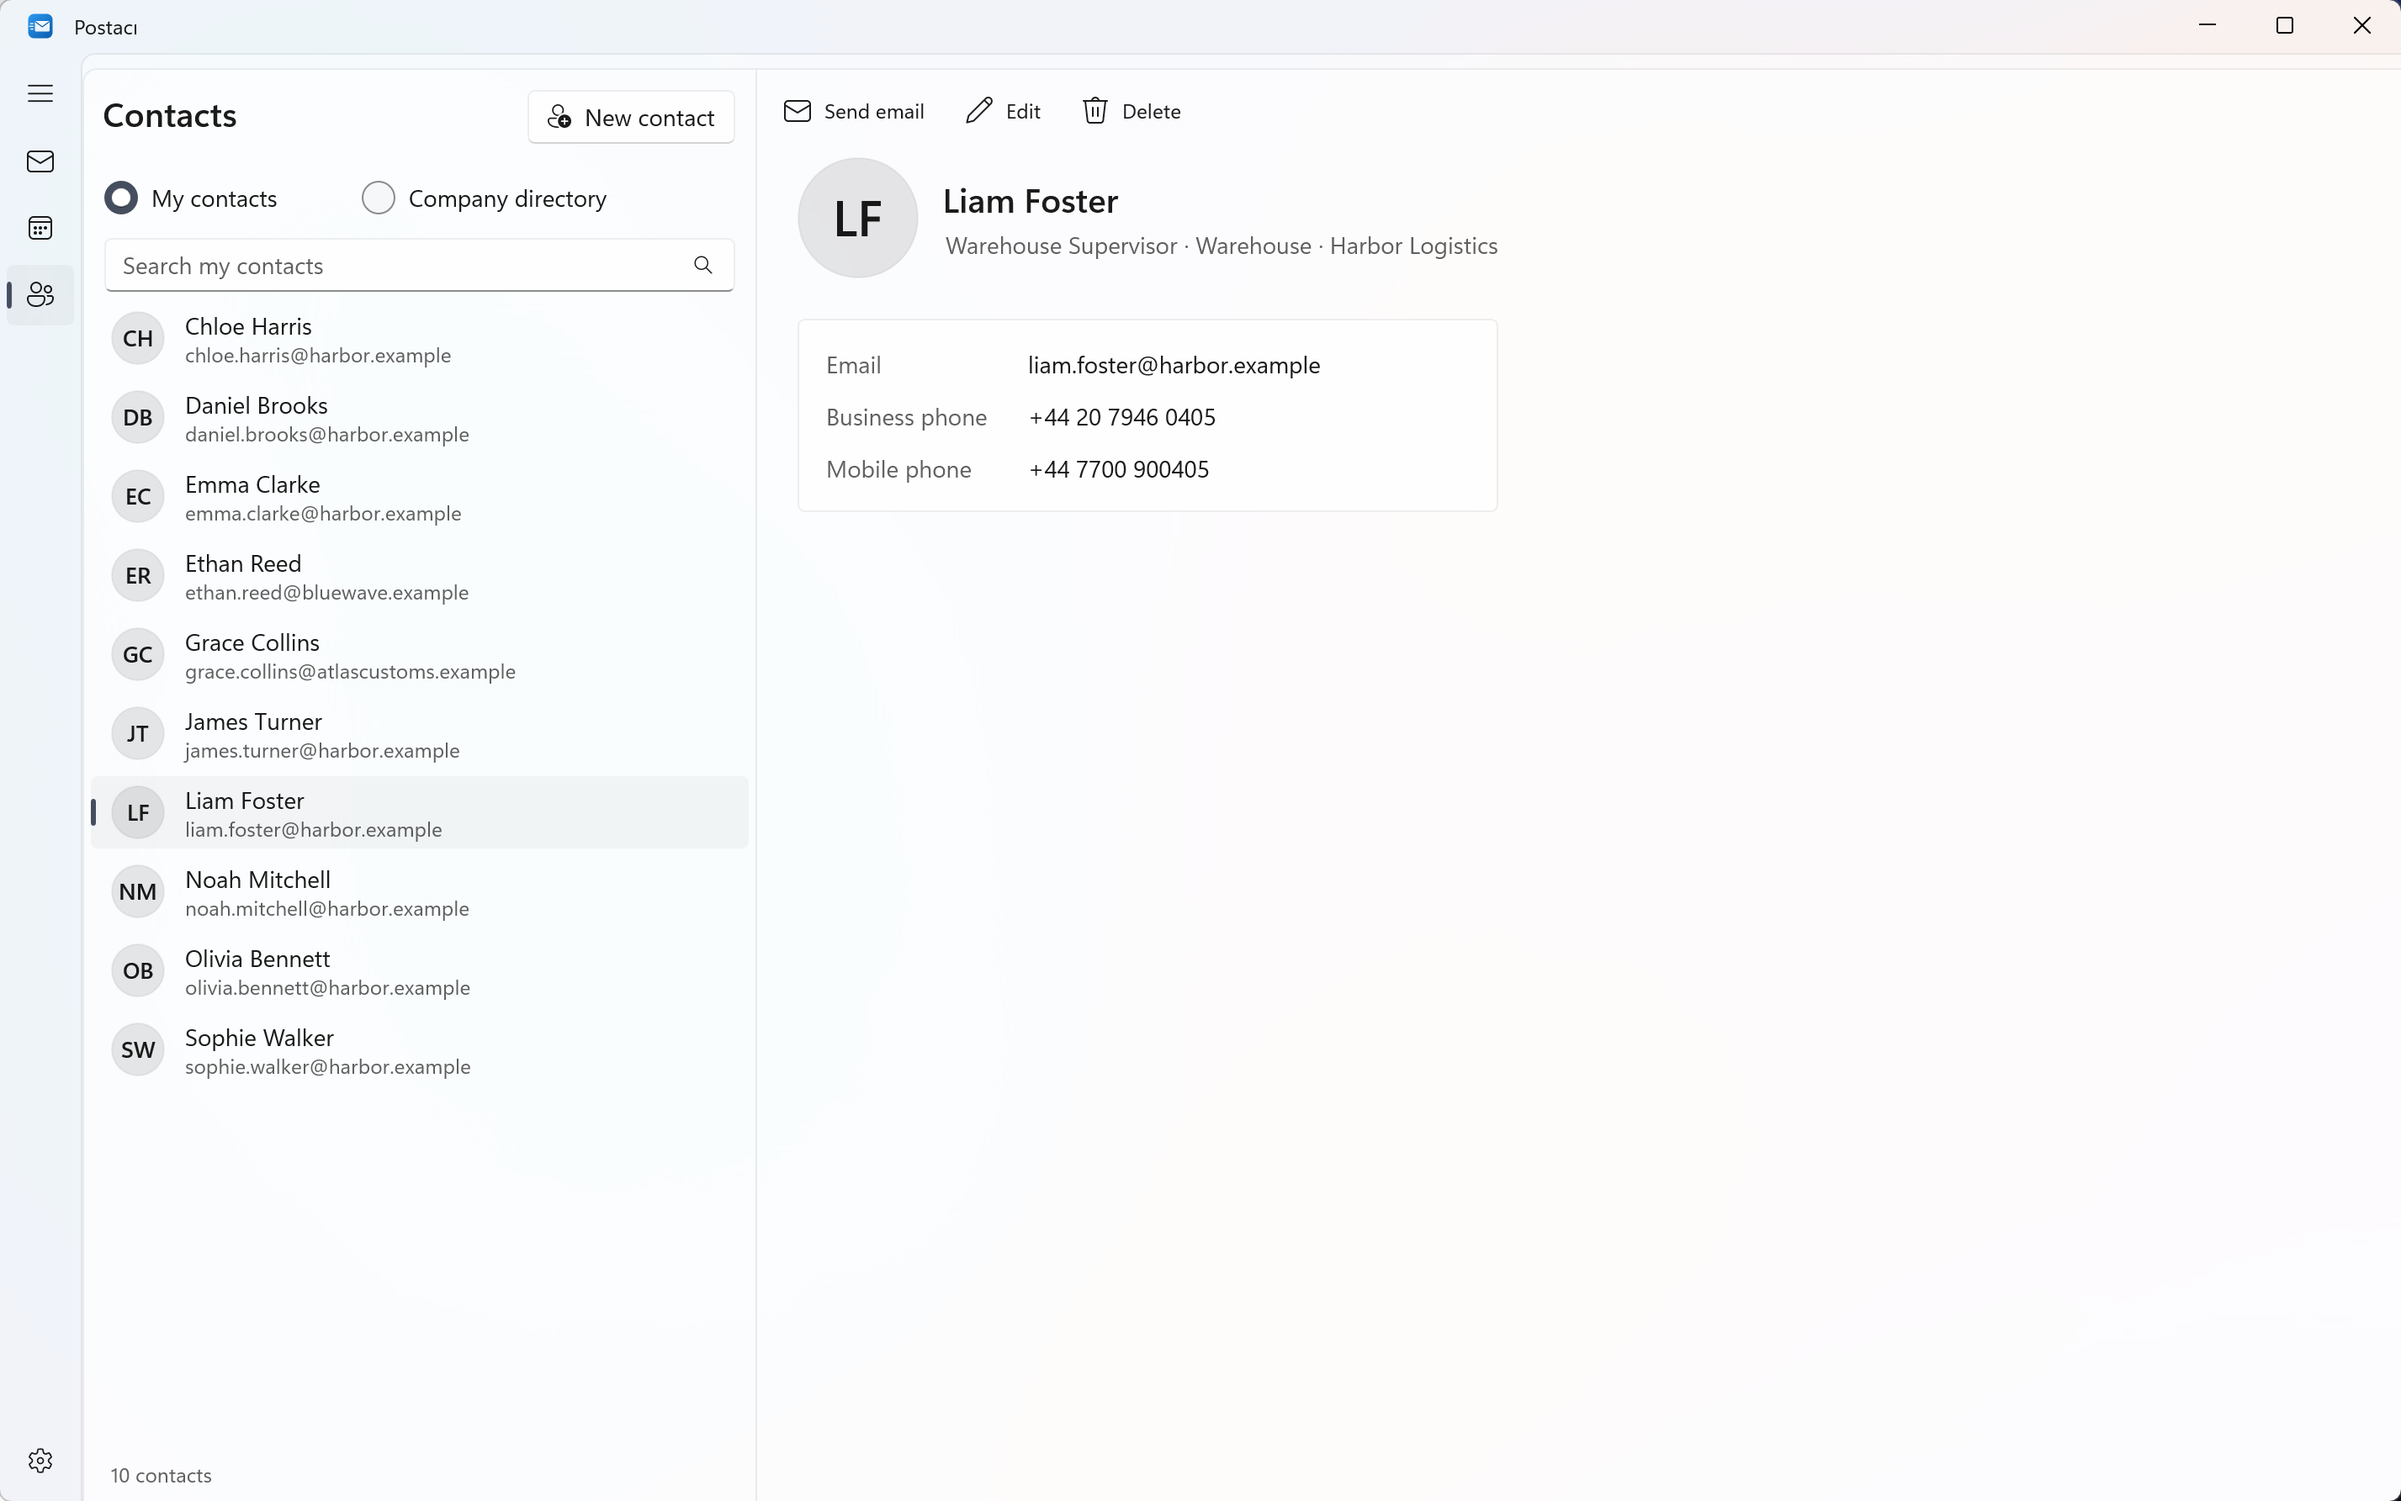
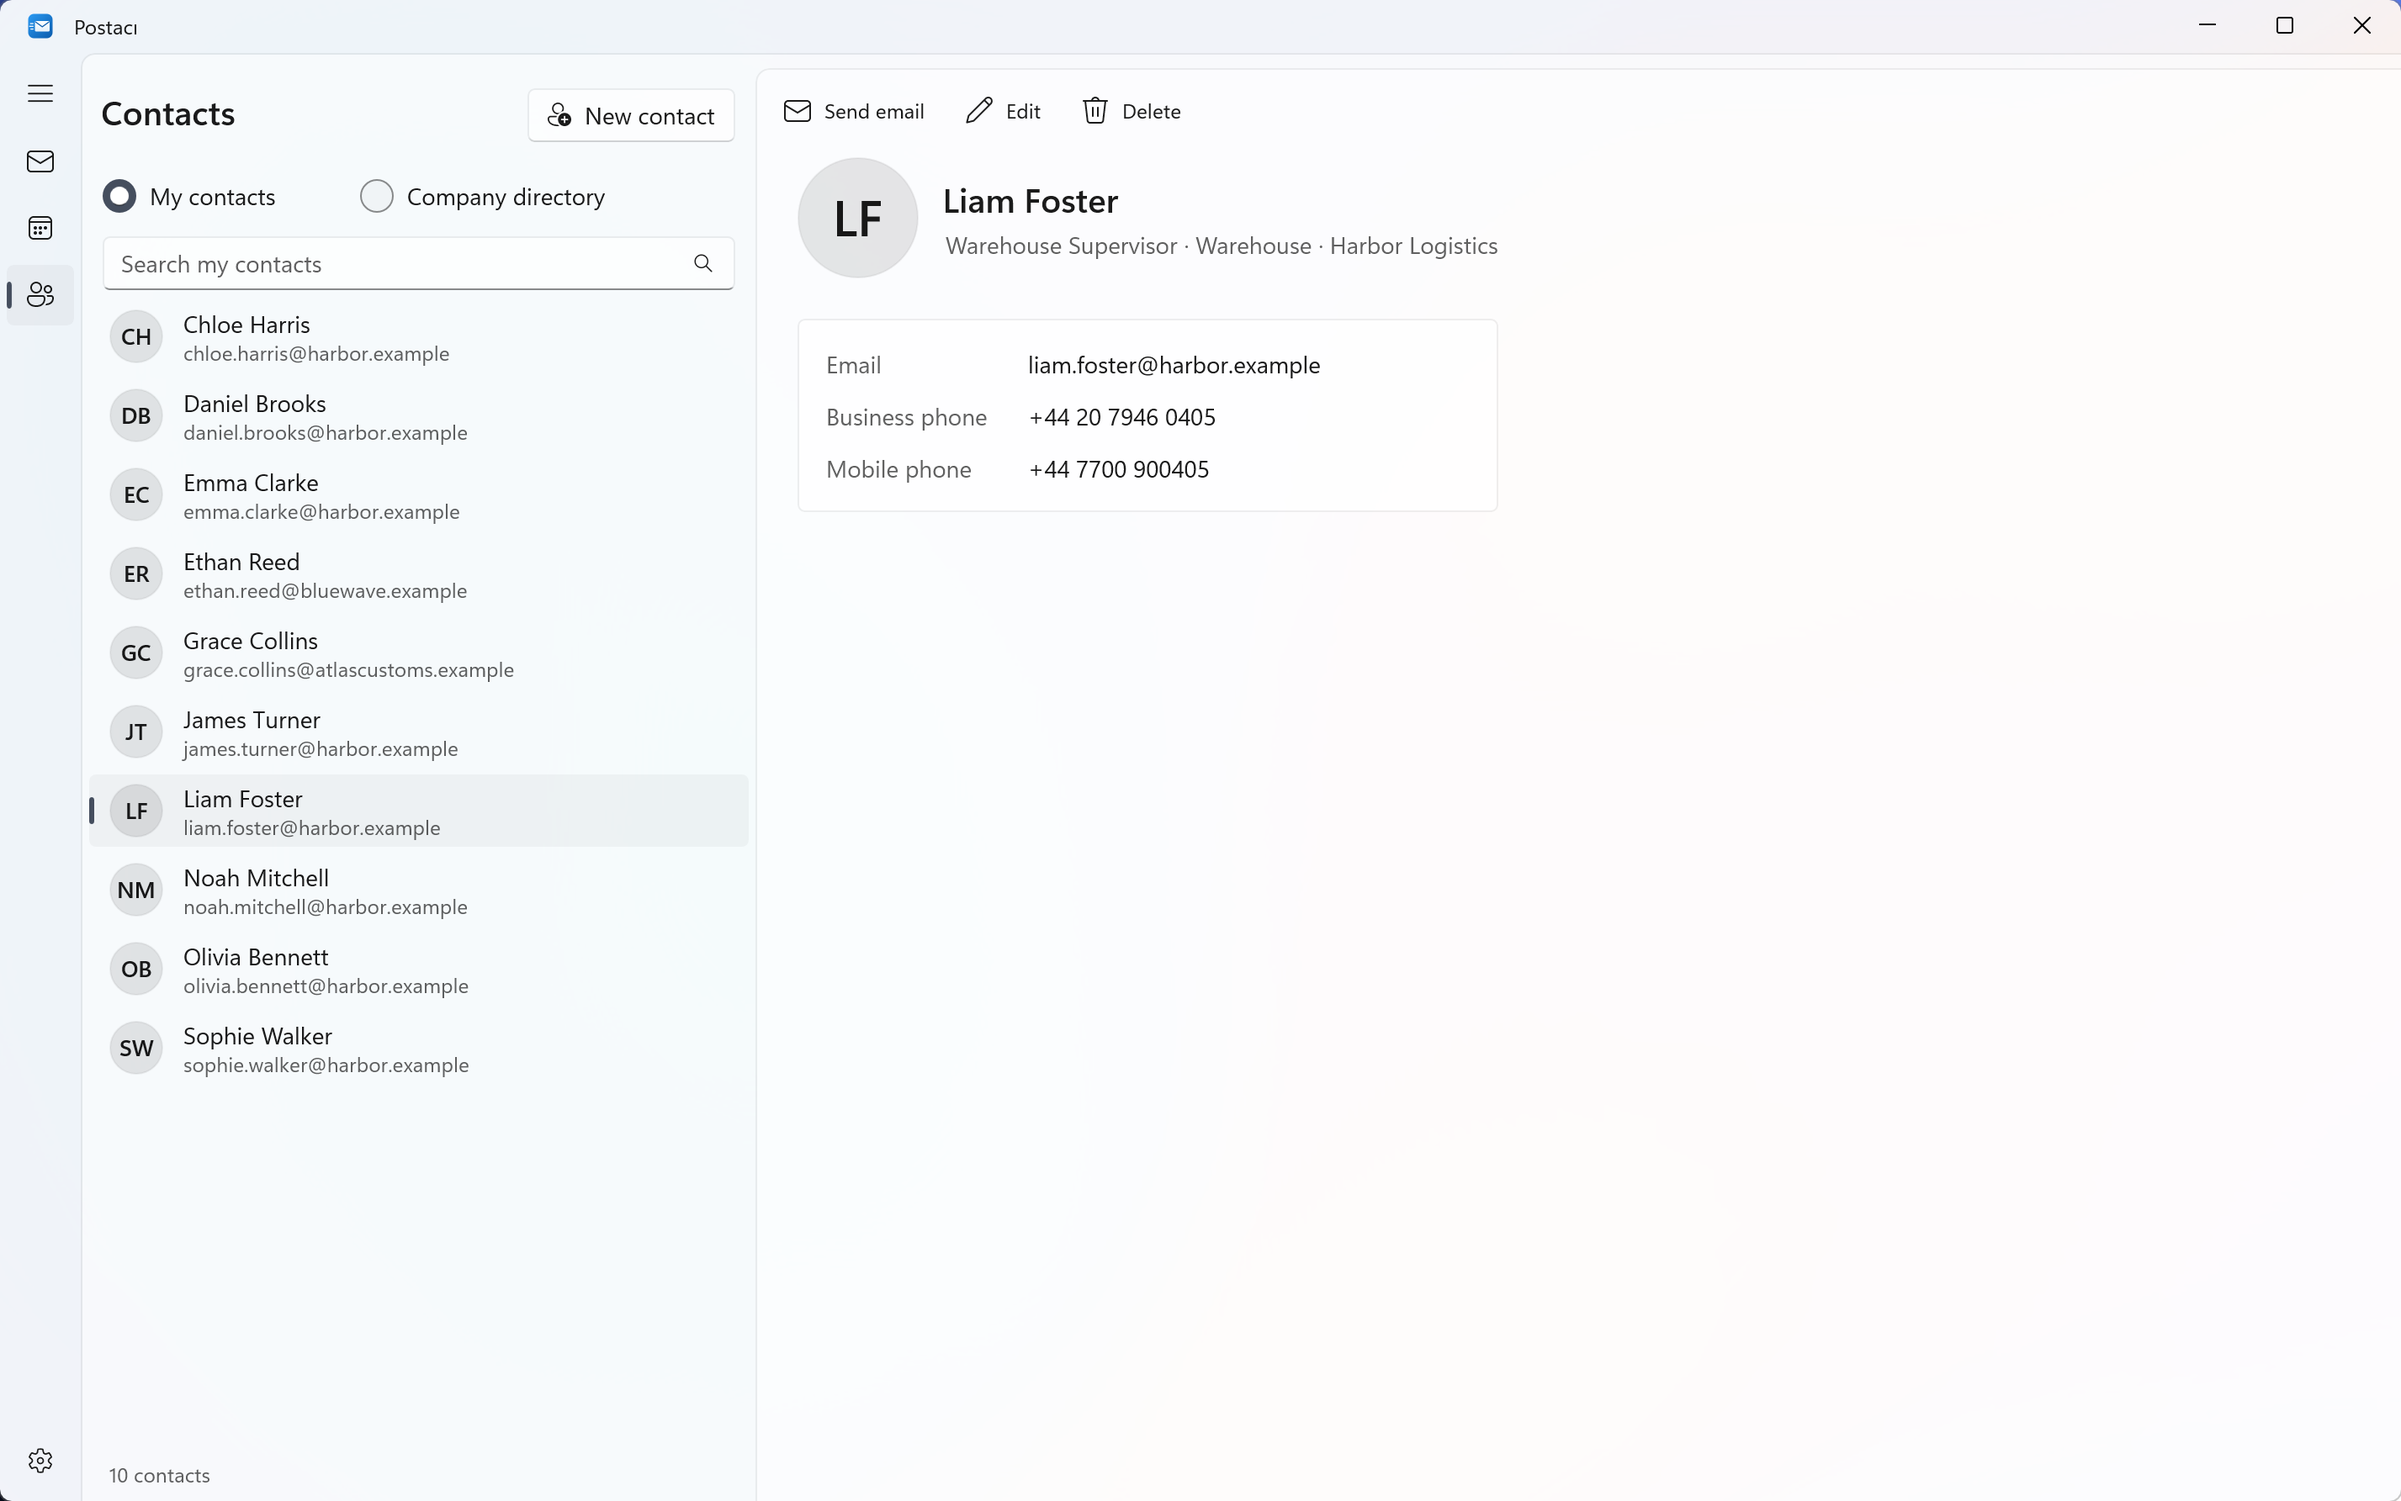
Kişiler: köşede üst üste iki kart
Liste sütunu kendi katmanını, kenarlığını ve yuvarlak köşesini çiziyordu;
gezinti görünümünün içerik katmanı da aynı köşede çizildiği için iki kart
üst üste görünüyordu. Posta ve takvimdeki gibi ilk sütun artık gezinti
katmanının üzerinde duruyor; katman ve 8,0,0,0 köşe ayrıntı bölmesinde.
Kişiler ekran görüntüleri yeniden çekildi.

diff --git a/src/ExchangeMail.App/Views/ContactsPage.xaml b/src/ExchangeMail.App/Views/ContactsPage.xaml
@@ -14,12 +14,11 @@
             <ColumnDefinition Width="*" />
         </Grid.ColumnDefinitions>
 
-        <!--  List  -->
-        <Grid
-            Background="{ThemeResource LayerFillColorDefaultBrush}"
-            BorderBrush="{ThemeResource CardStrokeColorDefaultBrush}"
-            BorderThickness="1,1,0,0"
-            CornerRadius="8,0,0,0">
+        <!--
+            List. Like the folder pane and the month view, the first column sits on the navigation view's own content
+            layer; a layer of its own drew a second card in the same corner.
+        -->
+        <Grid>
             <Grid.RowDefinitions>
                 <RowDefinition Height="Auto" />
                 <RowDefinition Height="Auto" />
@@ -123,7 +122,8 @@
             Grid.Column="1"
             Background="{ThemeResource LayerFillColorDefaultBrush}"
             BorderBrush="{ThemeResource CardStrokeColorDefaultBrush}"
-            BorderThickness="1,1,0,0">
+            BorderThickness="1,1,0,0"
+            CornerRadius="8,0,0,0">
             <Grid.RowDefinitions>
                 <RowDefinition Height="Auto" />
                 <RowDefinition Height="*" />
